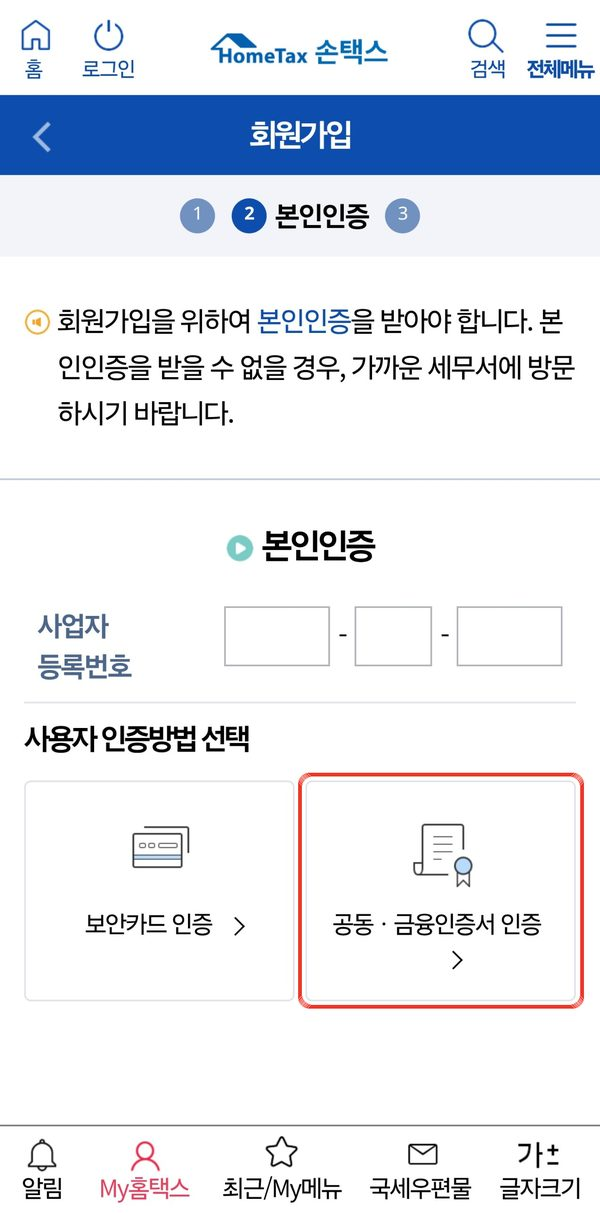
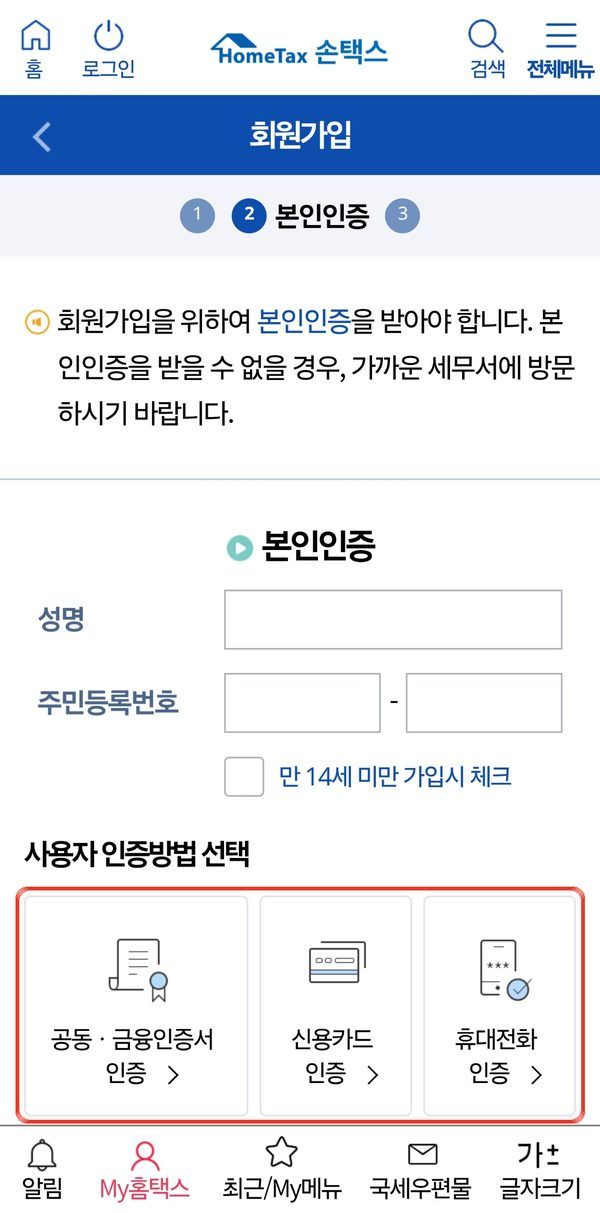
Add files via upload

diff --git a/start-hometax.html b/start-hometax.html
@@ -373,13 +373,13 @@ document.addEventListener("keydown",function(e){if(e.key==="Escape")close();});}
       <p class="doc-cat">신규고객 시작 가이드</p>
       <h1 class="doc-title">홈택스 회원가입하기</h1>
     </header>
-    <p class="doc-lead">이 문서는 <b>홈택스 아이디가 없으신 고객님</b>이 홈택스에 회원가입하는 방법을 안내합니다.</p>
+    <p class="doc-lead">이 문서는 <b>홈택스에 회원가입하는 방법</b>을 안내합니다.</p>
     <div class="doc-call"><p class="doc-call-t"><span class="doc-call-ic" aria-hidden="true">i</span>홈택스 아이디가 이미 있는 경우 해당 없음</p><ul><li>홈택스 아이디와 비밀번호가 이미 있으시면 이 단계는 해당하지 않습니다.</li><li class="doc-em">다만 <b>공동인증서나 간편인증으로만 로그인</b>하고 계셨다면, 별도의 아이디와 비밀번호를 만들어 주셔야 합니다.</li></ul></div>
 
     <div class="doc-block">
       <h2 class="doc-h2" id="s1">1. 손택스 앱으로 회원가입하기 <a class="doc-anchor" href="#s1" aria-label="이 섹션 주소 복사" title="섹션 주소 복사"><svg viewBox="0 0 24 24" aria-hidden="true"><rect x="9" y="9" width="11" height="11" rx="2"/><path d="M5 15V6a2 2 0 0 1 2-2h9"/></svg></a></h2>
       <p>손택스(홈택스 모바일 앱)에서 아래 순서로 회원가입하시면 됩니다.</p>
-      <ol class="es-steps"><li class="es-step"><div class="es-tx"><p class="es-t"><span class="es-n">1</span>손택스 앱 설치</p><p><b>구글플레이</b> 또는 <b>앱스토어</b>에서 <b>손택스</b>를 검색해 <b>국세청 홈택스 [손택스]</b> 앱을 설치합니다.</p></div><figure class="es-fig"><img src="img/hometax-0.jpg" alt="구글플레이의 국세청 홈택스 손택스 앱 설치 화면" loading="lazy" width="600"></figure></li><li class="es-step"><div class="es-tx"><p class="es-t"><span class="es-n">2</span>회원가입 선택</p><p>앱을 열고 로그인 화면에서 <b>[회원가입]</b>을 누릅니다.</p><p class="es-sub">위쪽의 사업자용·개인용 간편인증 로그인이 아니라, 아래의 [회원가입] 버튼으로 진행해 주세요.</p></div><figure class="es-fig"><img src="img/hometax-1.jpg" alt="손택스 통합 로그인 화면의 회원가입 버튼" loading="lazy" width="600"></figure></li><li class="es-step"><div class="es-tx"><p class="es-t"><span class="es-n">3</span>약관 동의 후 개인 선택</p><p>약관에 모두 동의한 뒤, 가입 유형에서 <b>[개인]</b>을 선택합니다.</p><p class="es-sub"><b>개인으로 가입하면 사업자 업무와 개인 업무를 함께 처리할 수 있어</b>, 사업자도 개인으로 가입하시는 것을 권장합니다.</p></div><figure class="es-fig"><img src="img/hometax-2.jpg" alt="약관 동의 후 개인 가입 선택 화면" loading="lazy" width="600"></figure></li><li class="es-step"><div class="es-tx"><p class="es-t"><span class="es-n">4</span>공동·금융인증서로 본인 인증</p><p>사용자 인증방법에서 <b>[공동·금융인증서 인증]</b>을 선택해 본인 인증을 진행합니다.</p><p class="es-sub">예시 화면은 사업자 가입 화면이라 사업자등록번호 입력란이 보입니다. 개인으로 가입하면 입력 항목이 다를 수 있습니다.</p></div><figure class="es-fig"><img src="img/hometax-3.jpg" alt="본인인증 방법 선택 화면" loading="lazy" width="600"></figure></li><li class="es-step es-noimg"><div class="es-tx"><p class="es-t"><span class="es-n">5</span>아이디·비밀번호 만들기</p><p>본인 인증이 끝나면 사용할 <b>아이디와 비밀번호</b>를 만들어 가입을 마칩니다.</p></div></li></ol>
+      <ol class="es-steps"><li class="es-step"><div class="es-tx"><p class="es-t"><span class="es-n">1</span>손택스 앱 설치</p><p><b>구글플레이</b> 또는 <b>앱스토어</b>에서 <b>손택스</b>를 검색해 <b>국세청 홈택스 [손택스]</b> 앱을 설치합니다.</p><a class="doc-btn" href="https://play.google.com/store/apps/details?id=kr.go.nts.android" target="_blank" rel="noopener">구글플레이에서 설치하기 <svg viewBox="0 0 24 24" aria-hidden="true"><path d="M14 4h6v6M20 4l-9 9M18 14v5a1 1 0 0 1-1 1H5a1 1 0 0 1-1-1V7a1 1 0 0 1 1-1h5"/></svg></a> <a class="doc-btn" href="https://apps.apple.com/kr/app/%EA%B5%AD%EC%84%B8%EC%B2%AD-%ED%99%88%ED%83%9D%EC%8A%A4-%EC%86%90%ED%83%9D%EC%8A%A4/id495157796" target="_blank" rel="noopener">앱스토어에서 설치하기 <svg viewBox="0 0 24 24" aria-hidden="true"><path d="M14 4h6v6M20 4l-9 9M18 14v5a1 1 0 0 1-1 1H5a1 1 0 0 1-1-1V7a1 1 0 0 1 1-1h5"/></svg></a></div><figure class="es-fig"><img src="img/hometax-0.jpg" alt="구글플레이의 국세청 홈택스 손택스 앱 설치 화면" loading="lazy" width="600"></figure></li><li class="es-step"><div class="es-tx"><p class="es-t"><span class="es-n">2</span>회원가입 선택</p><p>앱을 열고 로그인 화면에서 <b>[회원가입]</b>을 누릅니다.</p><p class="es-sub">위쪽의 사업자용·개인용 간편인증 로그인이 아니라, 아래의 [회원가입] 버튼으로 진행해 주세요.</p></div><figure class="es-fig"><img src="img/hometax-1.jpg" alt="손택스 통합 로그인 화면의 회원가입 버튼" loading="lazy" width="600"></figure></li><li class="es-step"><div class="es-tx"><p class="es-t"><span class="es-n">3</span>약관 동의 후 개인 선택</p><p>약관에 모두 동의한 뒤, 가입 유형에서 <b>[개인]</b>을 선택합니다.</p><p class="es-sub"><b>개인으로 가입하면 사업자 업무와 개인 업무를 함께 처리할 수 있어</b>, 사업자도 개인으로 가입하시는 것을 권장합니다.</p></div><figure class="es-fig"><img src="img/hometax-2.jpg" alt="약관 동의 후 개인 가입 선택 화면" loading="lazy" width="600"></figure></li><li class="es-step"><div class="es-tx"><p class="es-t"><span class="es-n">4</span>본인 인증</p><p><b>성명</b>과 <b>주민등록번호</b>를 입력한 뒤, 사용자 인증방법에서 <b>원하는 방법</b>을 선택해 본인 인증을 진행합니다.</p><p class="es-sub">공동·금융인증서, 신용카드, 휴대전화 인증 중 편한 방법을 선택하시면 됩니다.</p></div><figure class="es-fig"><img src="img/hometax-3.jpg" alt="성명·주민등록번호 입력 및 본인인증 방법 선택 화면" loading="lazy" width="600"></figure></li><li class="es-step es-noimg"><div class="es-tx"><p class="es-t"><span class="es-n">5</span>아이디·비밀번호 만들기</p><p>본인 인증이 끝나면 사용할 <b>아이디와 비밀번호</b>를 만들어 가입을 마칩니다.</p></div></li></ol>
     </div>
 
     <a class="doc-back" href="manual-start.html">&larr; 신규고객 시작 가이드로 돌아가기</a>
